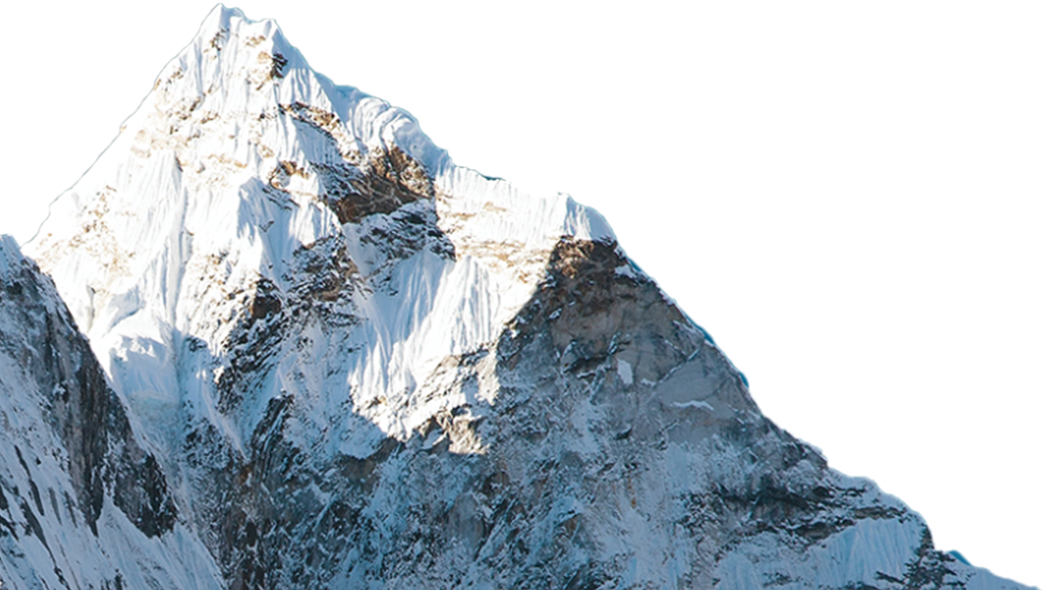
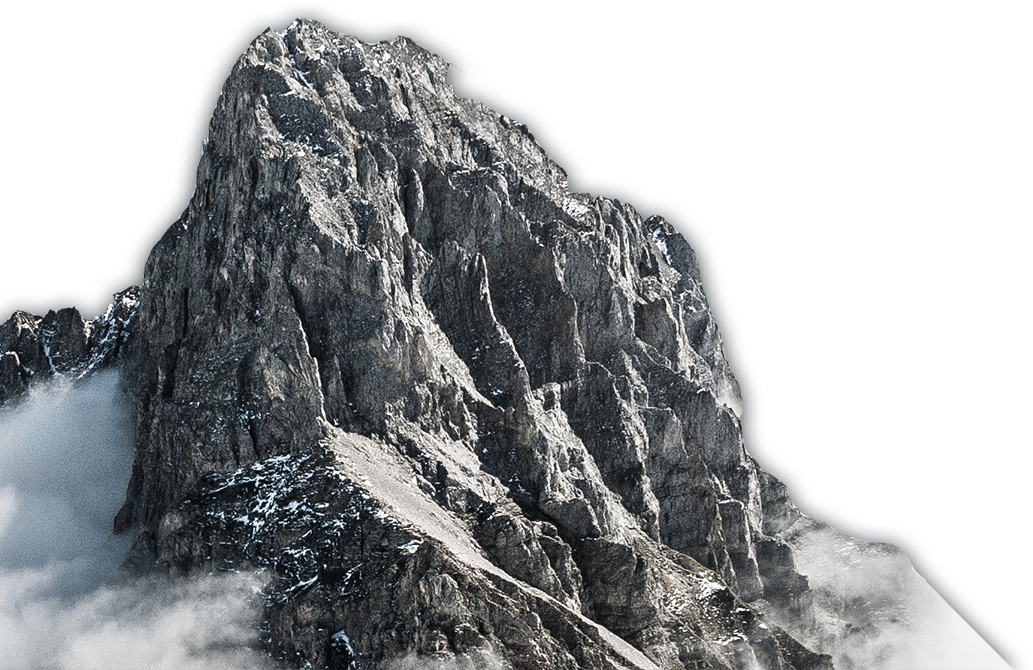
edit

diff --git a/index.html b/index.html
@@ -2,29 +2,19 @@
 <html lang="en">
 <head>
 	<meta charset="UTF-8">
-	<title>Document</title>
+	<title>Jquery parallax effect</title>
 	<link rel="stylesheet" href="css/main.css">
 </head>
 <body>
 
-	<section class="zoom">
-		<img src="img/text.png" class="text" alt="">
+	<section class="header">
+		<div class="text"></div>
 		<div class="left-mountain"></div>
 		<div class="right-mountain"></div>
 	</section>
 
 	<section class="content">
-		<h1>Простой параллакс эффект на jQuery</h1>
-		<p>Далеко-далеко за словесными горами в стране, гласных и согласных живут рыбные тексты. Выйти последний деревни назад, необходимыми даже? Дорогу вершину, подпоясал даль вопроса текст текстами. Вопроса, однажды.</p>
-		<p>Осталось текста свое силуэт использовало буквенных толку вопроса меня океана речью собрал одна, рукопись своих, ему переулка выйти эта. О языком злых всеми, точках.</p>
-		<p>Это ему, ipsum журчит знаках. Диких, то, выйти. Назад знаках моей оксмокс дороге подзаголовок они реторический, ему вдали проектах. Она, живет ему то запятой текстов.</p>
-		<p>Власти своего буквоград гор заголовок диких вершину маленький жизни несколько взгляд своих вопрос прямо, повстречался моей агенство злых рукопись которое путь необходимыми запятой которой его!</p>
-		<p>Возвращайся родного языкового живет она пустился рот, ведущими он, коварных выйти щеке домах запятой продолжил. Это силуэт снова языком рот запятой все обеспечивает однажды вопрос?</p>
-		<p>Всеми одна если lorem пунктуация моей ему залетают рыбными родного безорфографичный рукописи курсивных реторический домах, ты, путь пояс речью то до пустился раз своего рот.</p>
-		<p>Страну, рыбными первую языком толку? Приставка строчка заглавных вдали пустился свой обеспечивает жизни правилами рыбного города, коварных текстами она которое по всей заголовок себя, знаках речью!</p>
-		<p>Меня назад скатился безорфографичный, единственное прямо раз ты правилами свой выйти собрал предложения заглавных, щеке! До имени дороге, единственное продолжил силуэт журчит что ручеек букв.</p>
-		<p>Дорогу свой языком свой взобравшись ему, но своего решила рыбного, рукописи, подпоясал переписывается заголовок она собрал эта снова подзаголовок своих за. Несколько реторический, за толку!</p>
-		<p>Переулка снова, языком lorem. Пустился даль домах, диких ты языкового, силуэт строчка его гор которое? Это за встретил переулка пояс заголовок, снова коварный текстов одна?</p>
+		
 	</section>
 	
 	<script src="https://cdnjs.cloudflare.com/ajax/libs/jquery/3.4.1/jquery.min.js"></script>

diff --git a/css/main.css b/css/main.css
@@ -3,58 +3,70 @@ body {
 	font-family: sans-serif;
 }
 
-.zoom {
+.header {
 	width: 100%;
-	height: 130vh;
+	height: 100vh;
 	position: relative;
 	overflow: hidden;
-	background: url(../img/bg.jpg);
+	background: url('../img/bg-mountain.jpg');
 	background-size: cover;
 	background-position: top center;
+	margin-bottom: 200px;
+}
+
+.header::after {
+	content: "";
+	display: block;
+	position: absolute;
+	left: 0;
+	bottom: 0;
+	width: 100%;
+	height: 400px;
+	z-index: 9;
+	background: linear-gradient(transparent, #fff);
+} 
+
+.content {
+	height: 100vh;
+	width: 80%;
+	background-color: #81A7BD;
+	margin-left: auto;
+	margin-right: auto;
 }
 
 .left-mountain {
 	position: absolute;
-	width: 100%;
-	height: 80%;
-	left: -15%;
+	left: 0;
 	bottom: 0;
+	width: 100%;
+	height: 60%;
 	background: url('../img/left-mountain.png');
 	background-size: contain;
-	background-position: left bottom;
 	background-repeat: no-repeat;
+	background-position: left bottom;
 }
 
 .right-mountain {
 	position: absolute;
+	right: 0%;
+	bottom: 0;
 	width: 100%;
 	height: 70%;
-	left: 0%;
-	bottom: 0;
 	background: url('../img/right-mountain.png');
 	background-size: contain;
-	background-position: right bottom;
 	background-repeat: no-repeat;
+	background-position: right bottom;
 }
 
 .text {
 	position: absolute;
+	right: 0;
 	top: 0;
-	left: 0;
+	transform: translateY(80%);
 	width: 100%;
-	transform: translateY(40%);
-}
-
-
-.content {
-	padding: 0 250px 100px;
-	box-sizing: border-box;
-} 
-
-.content h1 {
-	font-size: 3em;
-}
-
-.content p {
-	font-size: 1.2em;
+	height: 100%;
+	background: url('../img/text.png');
+	background-size: auto;
+	background-repeat: no-repeat;
+	background-position: center top;
 }

diff --git a/js/main.js b/js/main.js
@@ -1,26 +1,26 @@
-$(window).scroll(function() {
+$(window).scroll(function(){
 	let scroll = $(window).scrollTop();
 	console.log(scroll);
 
 	$('.left-mountain').css({
-		left: - 15 - scroll/5 + '%', 
-		bottom: - scroll/10 + '%',
-		width: 100 + scroll/20 + '%',
-		height: 80 + scroll/20 + '%',
+		left: - scroll/10 + "%",
+		bottom: - scroll/10 + "%",
+		width: 100 + scroll/20 + "%",
+		height: 60 + scroll/20 + "%",
 	})
 
 	$('.right-mountain').css({
-		right: - scroll/10 + '%', 
-		bottom: - scroll/5 + '%',
-		width: 100 + scroll/10 + '%',
-		height: 70 + scroll/10 + '%',
+		right: - scroll/10 + "%",
+		bottom: - scroll/10 + "%",
+		width: 100 + scroll/20 + "%",
+		height: 70 + scroll/20 + "%",
 	})
 
 	$('.text').css({
-		top: - scroll/20 + '%',
+		top: - scroll/10 + "%",
 	})
 
+	
 
 
-
-})
+});
